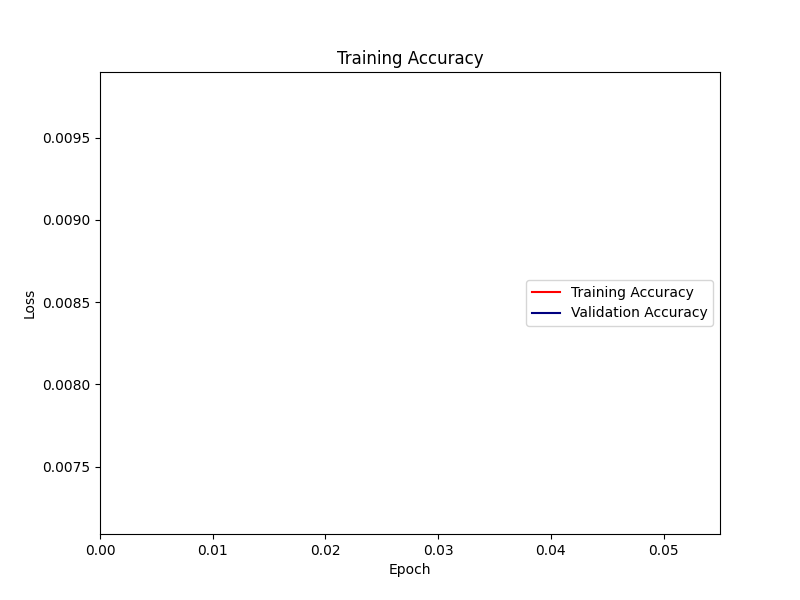
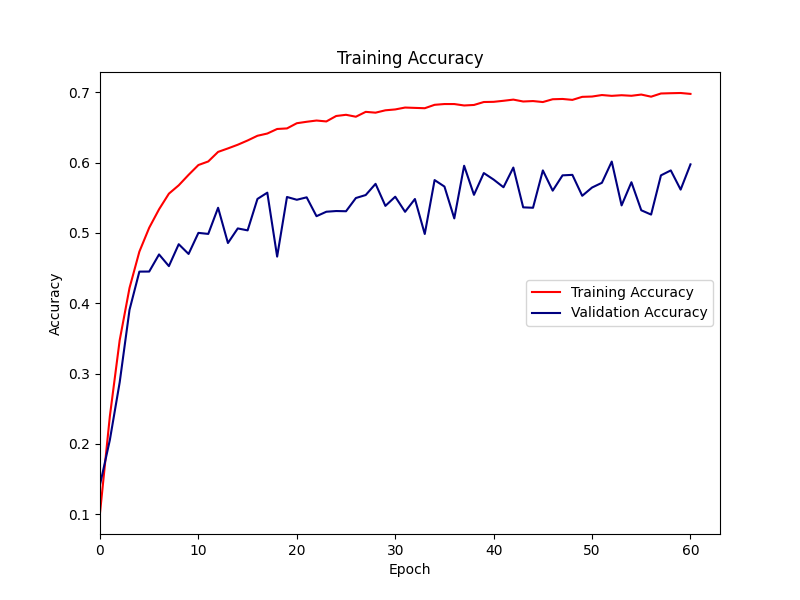
after add usage, add old files back

diff --git a/Melon/result_metric.py b/Melon/result_metric.py
@@ -1,6 +1,6 @@
 import numpy as np
 file = '/home/remote/u7076589/ATSPrivacy/Melon/benchmark/images/metric.npy'
-# file = '/home/remote/u7076589/ATSPrivacy/Melon/benchmark/images/metric.npy'
+# file = '/home/remote/u7076589/ATSPrivacy/Melon/benchmark/images_ResNet20_200_2nd/metric.npy'
 result = np.load(file,allow_pickle=True)
 print('number of result:{}'.format(len(result)))
 sum_ = 0
@@ -9,5 +9,19 @@ for i in range(len(result)):
     sum_+=result[i]['test_psnr']
     if result[i]['test_psnr']>max_psnr:
         max_psnr = result[i]['test_psnr']
-print(sum_/len(result)) #10.424027647972107
-print(max_psnr)
+print('average: {}'.format(sum_/len(result)))
+print('max:{}'.format(max_psnr))
+
+print('----------------------------------')
+file = '/home/remote/u7076589/ATSPrivacy/Melon/benchmark/images_ResNet20_200_1st/metric.npy'
+result = np.load(file,allow_pickle=True)
+sum_ = 0
+max_psnr = 0
+for i in range(len(result)):
+    sum_+=result[i]['test_psnr']
+    if result[i]['test_psnr']>max_psnr:
+        max_psnr = result[i]['test_psnr']
+print('number of result:{}'.format(len(result)))
+print('ResNet original:')
+print('average: {}'.format(sum_/len(result)))
+print('max:{}'.format(max_psnr))

diff --git a/Melon/training_routine.py b/Melon/training_routine.py
@@ -19,14 +19,14 @@ def train(model, loss_fn, trainloader, validloader, defs, setup=dict(dtype=torch
         step(model, loss_fn, trainloader, optimizer, scheduler, defs, setup, stats)
         model.eval()
         validate(model, loss_fn, validloader, defs, setup, stats)
-        if epoch % defs.validate == 0 or epoch == (defs.epochs - 1):
+        # if epoch % defs.validate == 0 or epoch == (defs.epochs - 1):
             # model.eval()
             # validate(model, loss_fn, validloader, defs, setup, stats)
             # Print information about loss and accuracy
-            print_status(epoch, loss_fn, optimizer, stats)
-            if save_dir is not None:
-                file = f'{save_dir}/{epoch}.pth'
-                torch.save(model.state_dict(), f'{file}')
+        print_status(epoch, loss_fn, optimizer, stats)
+        if save_dir is not None:
+            file = f'{save_dir}/{epoch}.pth'
+            torch.save(model.state_dict(), f'{file}')
 
         if defs.dryrun:
             break

diff --git a/Melon/train_MoEx.py b/Melon/train_MoEx.py
@@ -34,7 +34,7 @@ opt = parser.parse_args()
 arch = opt.arch
 
 def create_save_dir():
-    return 'checkpoints/data_{}_arch_{}_rlabel_{}'.format(opt.data, opt.arch, opt.rlabel)
+    return 'checkpoints/MoEx_bn_ResNet_20'
 
 
 def main():
@@ -206,7 +206,7 @@ def save_plot_loss_accuracy(stats,name):
     vl_line2 = ax.plot(stats["valid_" + name], label='Validation Accuracy', color='navy')
 
     ax.set_xlabel('Epoch')
-    ax.set_ylabel('Loss')
+    ax.set_ylabel('Accuracy')
     ax.set_title('Training Accuracy')
 
     lines = tl_line1 + vl_line2

diff --git a/Melon/Models.py b/Melon/Models.py
@@ -128,8 +128,8 @@ class ResNet(torchvision.models.ResNet):
           x,_,_ = self.pono(x)
           x2, mean, std = self.pono(x2)
           x = self.ms(x,mean,std)
-        else:
-            x = self.bn1(x)  # TODO if bn is required or not
+        # else:
+        x = self.bn1(x)  # TODO if bn is required or not
         x = self.relu(x)
 
         for layer in self.layers:
